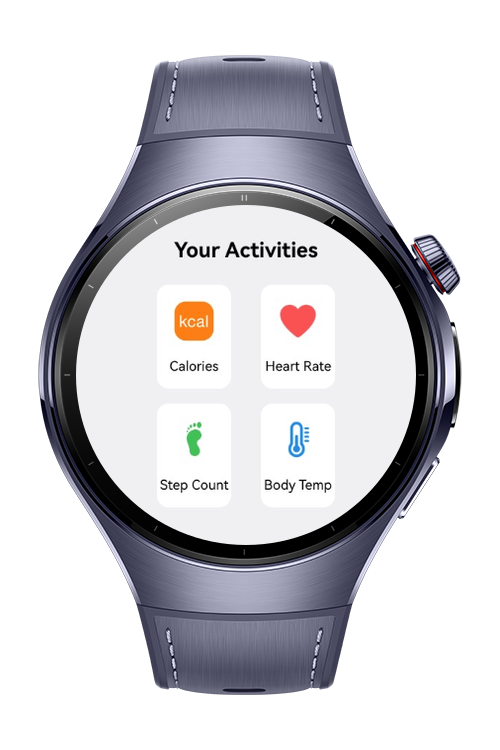
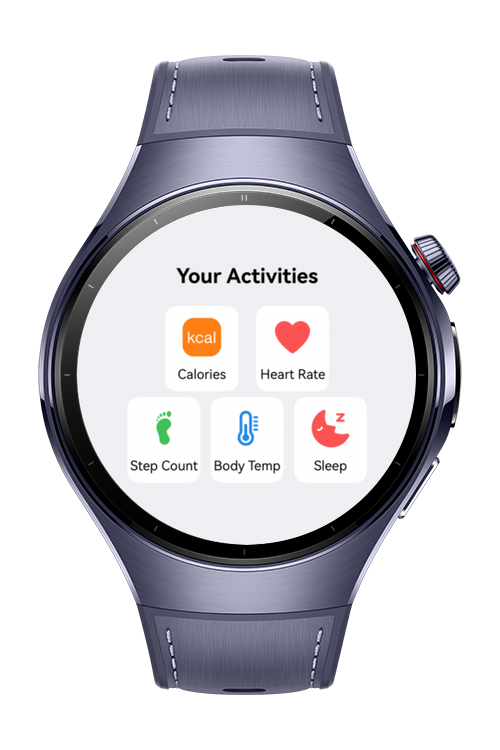
Update project content

diff --git a/README.md b/README.md
@@ -1,5 +1,3 @@
-> **Note:** To access all shared projects, get information about environment setup, and view other guides, please visit [Explore-In-HMOS-Wearable Index](https://github.com/Explore-In-HMOS-Wearable/hmos-index).
-
 # Healio
 
 This application is a simple activity dashboard that provides users with quick access to their daily health metrics.